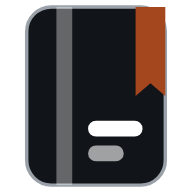
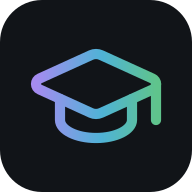
Icona del sito: cappello da laureato con il gradiente della scritta Unisa [no news]
Claude-Session: https://claude.ai/code/session_011B48L731oxA1HaXbT9hDcZ

diff --git a/Unisa/index.html b/Unisa/index.html
@@ -4,10 +4,10 @@
 <meta charset="utf-8">
 <meta name="viewport" content="width=device-width,initial-scale=1,viewport-fit=cover">
 <title>Appunti Unisa</title>
-<link rel="icon" href="icon.svg?v=8" type="image/svg+xml">
-<link rel="icon" href="favicon.ico?v=8" sizes="16x16 32x32 48x48">
-<link rel="icon" href="favicon-32.png?v=8" sizes="32x32" type="image/png">
-<link rel="apple-touch-icon" href="apple-touch-icon.png?v=8">
+<link rel="icon" href="icon.svg?v=9" type="image/svg+xml">
+<link rel="icon" href="favicon.ico?v=9" sizes="16x16 32x32 48x48">
+<link rel="icon" href="favicon-32.png?v=9" sizes="32x32" type="image/png">
+<link rel="apple-touch-icon" href="apple-touch-icon.png?v=9">
 <meta name="description" content="Gli appunti dei corsi di Informatica all'Università di Salerno, da leggere ovunque.">
 <meta name="theme-color" content="#111418">
 <link rel="manifest" href="manifest.webmanifest">
